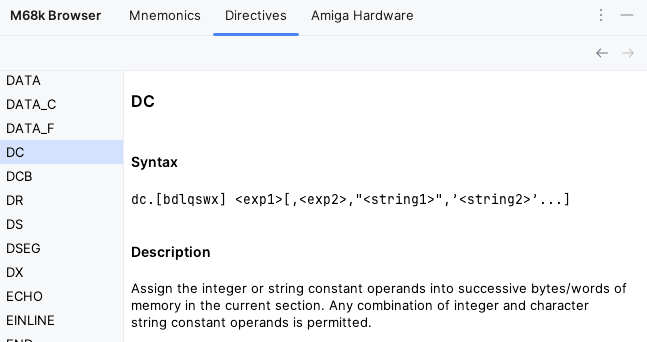
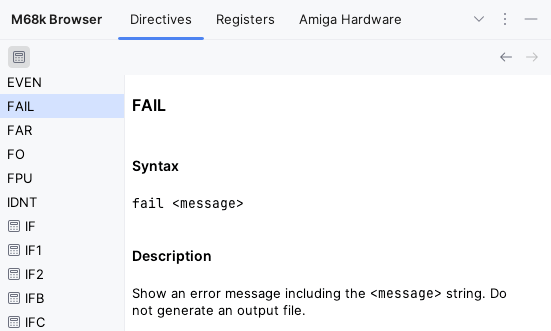
reference documentation for conditional assembly directives

diff --git a/src/com/yanncebron/m68kplugin/documentation/M68kDirectiveDocumentationProvider.java b/src/com/yanncebron/m68kplugin/documentation/M68kDirectiveDocumentationProvider.java
@@ -31,6 +31,7 @@ import com.intellij.psi.util.PsiTreeUtil;
 import com.yanncebron.m68kplugin.lang.psi.M68kElementFactory;
 import com.yanncebron.m68kplugin.lang.psi.M68kTokenGroups;
 import com.yanncebron.m68kplugin.lang.psi.M68kTokenTypes;
+import com.yanncebron.m68kplugin.lang.psi.conditional.M68kConditionalAssemblyDirective;
 import com.yanncebron.m68kplugin.lang.psi.directive.M68kDirective;
 import com.yanncebron.m68kplugin.lang.psi.directive.M68kMacroCallDirective;
 import org.jetbrains.annotations.NotNull;
@@ -46,23 +47,35 @@ public final class M68kDirectiveDocumentationProvider extends AbstractDocumentat
                                                             @NotNull PsiFile file,
                                                             @Nullable PsiElement contextElement,
                                                             int targetOffset) {
-    if (contextElement != null &&
-      M68kTokenGroups.DIRECTIVES.contains(contextElement.getNode().getElementType())) {
+    if (contextElement == null) return null;
+
+    if (M68kTokenGroups.DIRECTIVES.contains(contextElement.getNode().getElementType())) {
       return PsiTreeUtil.getParentOfType(contextElement, M68kDirective.class);
     }
+
+    if (M68kTokenGroups.CONDITIONAL_ASSEMBLY_DIRECTIVES.contains(contextElement.getNode().getElementType())) {
+      return PsiTreeUtil.getParentOfType(contextElement, M68kConditionalAssemblyDirective.class);
+    }
+
     return null;
   }
 
   @Override
   public @Nullable String generateDoc(PsiElement element, @Nullable PsiElement originalElement) {
-    if (!(element instanceof M68kDirective directive)) return null;
+    IElementType directiveType;
+    if (element instanceof M68kDirective directive) {
+      if (directive instanceof M68kMacroCallDirective) return null;
+      ASTNode directiveNode = directive.getNode().findChildByType(M68kTokenGroups.DIRECTIVES);
+      assert directiveNode != null : directive.getText();
+      directiveType = directiveNode.getElementType();
+    } else if (element instanceof M68kConditionalAssemblyDirective conditionalAssemblyDirective) {
+      ASTNode directiveNode = conditionalAssemblyDirective.getNode().findChildByType(M68kTokenGroups.CONDITIONAL_ASSEMBLY_DIRECTIVES);
+      assert directiveNode != null : conditionalAssemblyDirective.getText();
+      directiveType = directiveNode.getElementType();
+    } else {
+      return null;
+    }
 
-    if (directive instanceof M68kMacroCallDirective) return null;
-
-    ASTNode directiveNode = directive.getNode().findChildByType(M68kTokenGroups.DIRECTIVES);
-    assert directiveNode != null : directive.getText();
-
-    final IElementType directiveType = directiveNode.getElementType();
     return getDirectiveDoc(directiveType, false);
   }
 
@@ -79,9 +92,12 @@ public final class M68kDirectiveDocumentationProvider extends AbstractDocumentat
 
   @NotNull
   private static String getDirectiveDoc(IElementType directiveType, boolean forBrowserPane) {
-    directiveType = directiveType == M68kTokenTypes.EQ_DIRECTIVE ? M68kTokenTypes.EQU : directiveType;
+    IElementType docDirectiveType = directiveType;
+    if (directiveType == M68kTokenTypes.EQ_DIRECTIVE) {
+      docDirectiveType = M68kTokenTypes.EQU;
+    }
 
-    String directiveText = directiveType.toString();
+    String directiveText = docDirectiveType.toString();
     Couple<String> contents = M68kDocumentationUtil.getMarkdownContents(DOCS_MNEMONIC_ROOT, StringUtil.toLowerCase(directiveText));
     if (contents.getFirst() == null) {
       return M68kDocumentationUtil.CSS +

diff --git a/src/com/yanncebron/m68kplugin/browser/M68kDirectivesBrowserPane.java b/src/com/yanncebron/m68kplugin/browser/M68kDirectivesBrowserPane.java
@@ -16,21 +16,31 @@
 
 package com.yanncebron.m68kplugin.browser;
 
+import com.intellij.icons.AllIcons;
 import com.intellij.openapi.actionSystem.ActionGroup;
+import com.intellij.openapi.actionSystem.DefaultActionGroup;
+import com.intellij.openapi.util.Ref;
 import com.intellij.openapi.util.text.NaturalComparator;
 import com.intellij.openapi.util.text.StringUtil;
 import com.intellij.psi.tree.IElementType;
+import com.intellij.ui.ColoredListCellRenderer;
+import com.intellij.ui.speedSearch.SpeedSearchUtil;
 import com.intellij.util.containers.Convertor;
+import com.yanncebron.m68kplugin.M68kBundle;
 import com.yanncebron.m68kplugin.documentation.M68kDirectiveDocumentationProvider;
 import com.yanncebron.m68kplugin.lang.psi.M68kTokenGroups;
 import com.yanncebron.m68kplugin.lang.psi.M68kTokenTypes;
 import org.jetbrains.annotations.NotNull;
 
+import javax.swing.*;
 import java.util.ArrayList;
+import java.util.Arrays;
 import java.util.Comparator;
 import java.util.List;
 
 final class M68kDirectivesBrowserPane extends M68kBrowserPaneBase<IElementType> {
+
+  private Ref<Boolean> isShowConditionalAssemblyDirectives;
 
   public M68kDirectivesBrowserPane() {
     super(IElementType.class);
@@ -44,6 +54,9 @@ final class M68kDirectivesBrowserPane extends M68kBrowserPaneBase<IElementType> 
 
       items.add(type);
     }
+    if (isShowConditionalAssemblyDirectives.get()) {
+      items.addAll(Arrays.asList(M68kTokenGroups.CONDITIONAL_ASSEMBLY_DIRECTIVES.getTypes()));
+    }
 
     items.sort(Comparator.comparing(IElementType::toString, NaturalComparator.INSTANCE));
     setListItems(items);
@@ -51,7 +64,20 @@ final class M68kDirectivesBrowserPane extends M68kBrowserPaneBase<IElementType> 
 
   @Override
   protected ActionGroup getToolbarActionGroup() {
-    return null;
+    DefaultActionGroup actionGroup = new DefaultActionGroup();
+
+    isShowConditionalAssemblyDirectives = Ref.create(Boolean.TRUE);
+    actionGroup.add(
+      createToggleAction(
+        M68kBundle.message("toolwindow.tab.directives.show.conditional.assembly.directives"),
+        AllIcons.Debugger.EvaluateExpression,
+        isShowConditionalAssemblyDirectives,
+        "M68DirectivesBrowserPane.show.conditional.assembly.directives",
+        (anActionEvent, aBoolean) -> initList(),
+        null
+      )
+    );
+    return actionGroup;
   }
 
   @Override
@@ -64,4 +90,18 @@ final class M68kDirectivesBrowserPane extends M68kBrowserPaneBase<IElementType> 
     return M68kDirectiveDocumentationProvider.getDirectiveDoc(selectedValue);
   }
 
+  @Override
+  protected ColoredListCellRenderer<IElementType> getListCellRenderer() {
+    return new ColoredListCellRenderer<>() {
+      @Override
+      protected void customizeCellRenderer(@NotNull JList<? extends IElementType> list, IElementType value, int index, boolean selected, boolean hasFocus) {
+        if (M68kTokenGroups.CONDITIONAL_ASSEMBLY_DIRECTIVES.contains(value)) {
+          setIcon(AllIcons.Debugger.EvaluateExpression);
+        }
+
+        append(getListItemNamer().convert(value));
+        SpeedSearchUtil.applySpeedSearchHighlighting(list, this, true, selected);
+      }
+    };
+  }
 }

diff --git a/tests/com/yanncebron/m68kplugin/documentation/M68kDirectiveDocumentationProviderTest.java b/tests/com/yanncebron/m68kplugin/documentation/M68kDirectiveDocumentationProviderTest.java
@@ -47,6 +47,7 @@ public class M68kDirectiveDocumentationProviderTest extends BasePlatformTestCase
       M68kTokenTypes.INITNEAR,
       M68kTokenTypes.JUMPERR,
       M68kTokenTypes.JUMPPTR,
+      M68kTokenTypes.LOAD,
       M68kTokenTypes.MACHINE,
       M68kTokenTypes.MASK2,
       M68kTokenTypes.MC68000,
@@ -61,12 +62,7 @@ public class M68kDirectiveDocumentationProviderTest extends BasePlatformTestCase
       M68kTokenTypes.REG
     );
 
-    assertNoReferenceDoc(M68kTokenGroups.CONDITIONAL_ASSEMBLY_DIRECTIVES,
-      M68kTokenTypes.ELSEIF,
-      M68kTokenTypes.ENDC,
-      M68kTokenTypes.IFMI,
-      M68kTokenTypes.IFPL
-    );
+    assertNoReferenceDoc(M68kTokenGroups.CONDITIONAL_ASSEMBLY_DIRECTIVES);
   }
 
   private void assertNoReferenceDoc(TokenSet tokenSet, IElementType... missing) {
@@ -103,6 +99,18 @@ public class M68kDirectiveDocumentationProviderTest extends BasePlatformTestCase
         "</code></pre>\n" +
         "<h2>Description</h2>\n" +
         "<p>Ends an outcommented block from <a rel=\"nofollow\" href=\"psi_element://rem\">rem</a>. Assembly will continue.</p>\n", doc);
+    });
+  }
+
+  public void testIfmiConditionalAssemblyDirectiveReferenceDoc() {
+    doTest(" if<caret>mi", (psiElement, documentationProvider) -> {
+      String doc = documentationProvider.generateDoc(psiElement, getOriginalElement());
+      assertEquals("<style>h1 { font-weight: bold; font-size: 120%; } h2 { padding-top: 13px; font-weight: bold; font-size: 110%; } h3 { padding-top: 10px; font-weight: bold; } table { padding-bottom: 10px; white-space: nowrap; } td { margin: 4px 0 0 0; padding: 0 0 0 0; }th { font-weight: bold; text-align: left; white-space: nowrap; margin: 2px; } em { font-style: italic; }code { white-space: nowrap; }p { padding-top: 5px; } strong { font-weight: bold; }blockquote { padding-left: 10px; padding-right:10px; padding-bottom: 5px; }</style><h1>IFMI</h1>\n" +
+        "<h2>Syntax</h2>\n" +
+        "<pre><code class=\"language-assembly\">ifmi &lt;expression&gt;\n" +
+        "</code></pre>\n" +
+        "<h2>Description</h2>\n" +
+        "<p>Conditionally assemble the following lines if <code>&lt;expression&gt;</code> is less than zero. Equivalent to <a rel=\"nofollow\" href=\"psi_element://iflt\">iflt</a>.</p>\n", doc);
     });
   }
 

diff --git a/CHANGELOG.md b/CHANGELOG.md
@@ -5,7 +5,10 @@
 ### Added
 
 - *View \| Appearance \| Navigation Bar*
-- add method separator for machine directives (`machine`, `mc68010` etc.)
+- add method separator for machine directives (`machine`, `mc68010`, etc.)
+- reference documentation for conditional assembly directives (`IFND`, `ELSE`, etc.)
+  - in editor
+  - M68k Browser "Directives" tab
 
 ### Fixed
 

diff --git a/docs/features/ide.md b/docs/features/ide.md
@@ -26,7 +26,7 @@ Browse all supported mnemonics with additional reference documentation
 
 ### Directives
 
-Browse all supported directives with reference documentation
+Browse all supported (conditional assembly) directives with reference documentation
 
 ![Directive reference documentation](../assets/ide/directive_doc.png)
 

diff --git a/plugin-resources/docs/directives/ifpl.md b/plugin-resources/docs/directives/ifpl.md
@@ -1,0 +1,9 @@
+# IFPL
+
+## Syntax
+```assembly
+ifpl <expression>
+```
+
+## Description
+Conditionally assemble the following lines if `<expression>` is greater than zero or equal. Equivalent to [ifge](ifge.md).

diff --git a/plugin-resources/docs/directives/ifmi.md b/plugin-resources/docs/directives/ifmi.md
@@ -1,0 +1,9 @@
+# IFMI
+
+## Syntax
+```assembly
+ifmi <expression>
+```
+
+## Description
+Conditionally assemble the following lines if `<expression>` is less than zero. Equivalent to [iflt](iflt.md).

diff --git a/plugin-resources/docs/directives/elseif.md b/plugin-resources/docs/directives/elseif.md
@@ -1,0 +1,9 @@
+# ELSEIF
+
+## Syntax
+```assembly
+elseif
+```
+
+## Description
+Assemble the following lines if the previous `if` condition was false. Equivalent to [else](else.md).

diff --git a/plugin-resources/docs/directives/endif.md b/plugin-resources/docs/directives/endif.md
@@ -6,4 +6,4 @@ endif
 ```
 
 ## Description
-Ends a section of conditional assembly.
+Ends a section of conditional assembly. Equivalent to [endc](endc.md).

diff --git a/plugin-resources/docs/directives/endc.md b/plugin-resources/docs/directives/endc.md
@@ -1,0 +1,9 @@
+# ENDC
+
+## Syntax
+```assembly
+endc
+```
+
+## Description
+Ends a section of conditional assembly. Equivalent to [endif](endif.md).
